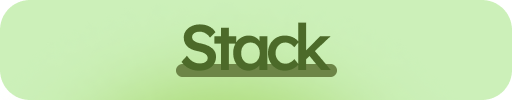
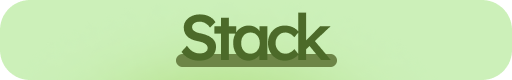
Update README.md and stack_thin.png

diff --git a/README.md b/README.md
@@ -47,7 +47,7 @@ Already nothing...
 
 ## 🧑🏻💻 Stack
 
-<a style="display:flex;"><img alt="My stack" width="256" height="50"  align="left" src="stack_thin.png"/></a>
+<a style="display:flex;"><img alt="My stack" width="256" height="40"  align="left" src="stack_thin.png"/></a>
 
 <div>
   <img src="https://raw.githubusercontent.com/devicons/devicon/6910f0503efdd315c8f9b858234310c06e04d9c0/icons/cplusplus/cplusplus-original.svg" title="C++" alt="CPLUSPLUS" width="40" height="40"/>
